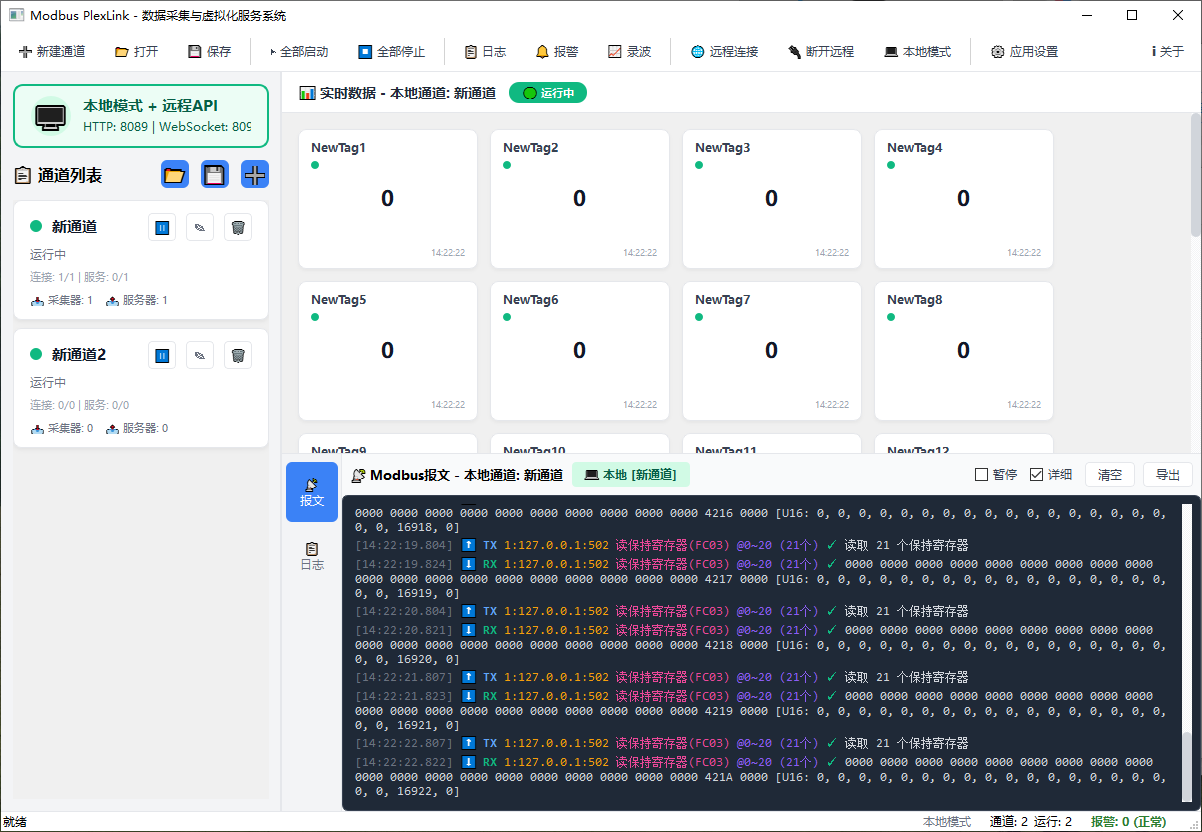
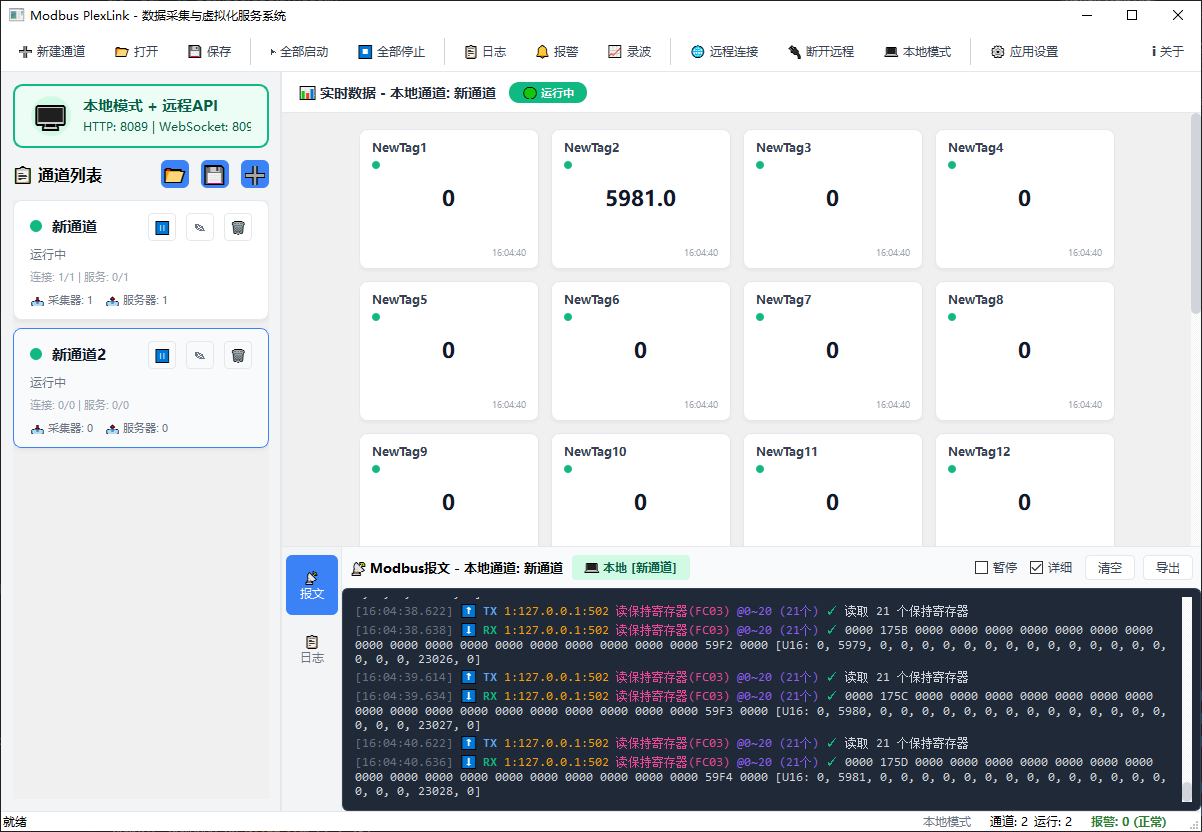
docs: 更新README，简化API文档并调整后期计划结构

diff --git a/src/gui/DashboardDataWidget.cpp b/src/gui/DashboardDataWidget.cpp
@@ -327,6 +327,11 @@ DashboardDataWidget::DashboardDataWidget(QWidget *parent)
     , m_headerWidget(nullptr)
     , m_channelNameLabel(nullptr)
     , m_channelStatusLabel(nullptr)
+    , m_scrollArea(nullptr)
+    , m_contentWidget(nullptr)
+    , m_gridContainer(nullptr)
+    , m_gridLayout(nullptr)
+    , m_emptyLabel(nullptr)
     , m_channelOnline(false)
 {
     setupUi();
@@ -395,18 +400,36 @@ void DashboardDataWidget::setupUi() {
     m_scrollArea->setHorizontalScrollBarPolicy(Qt::ScrollBarAsNeeded);
     m_scrollArea->setVerticalScrollBarPolicy(Qt::ScrollBarAsNeeded);
 
-    // 内容容器
+    // 内容容器 - 使用包装布局实现居中
     m_contentWidget = new QWidget();
-    m_gridLayout = new QGridLayout(m_contentWidget);
-    m_gridLayout->setContentsMargins(16, 16, 16, 16);
+    QVBoxLayout* contentLayout = new QVBoxLayout(m_contentWidget);
+    contentLayout->setContentsMargins(0, 0, 0, 0);
+    contentLayout->setSpacing(0);
+    
+    // 创建一个水平布局用于居中
+    QHBoxLayout* centerLayout = new QHBoxLayout();
+    centerLayout->setContentsMargins(16, 16, 16, 16);
+    centerLayout->setSpacing(0);
+    centerLayout->addStretch();
+    
+    // 网格布局（卡片容器）
+    m_gridContainer = new QWidget(m_contentWidget);
+    m_gridLayout = new QGridLayout(m_gridContainer);
+    m_gridLayout->setContentsMargins(0, 0, 0, 0);
     m_gridLayout->setSpacing(12);
     m_gridLayout->setAlignment(Qt::AlignTop | Qt::AlignLeft);
+    
+    centerLayout->addWidget(m_gridContainer);
+    centerLayout->addStretch();
+    
+    contentLayout->addLayout(centerLayout);
+    contentLayout->addStretch();
 
     m_scrollArea->setWidget(m_contentWidget);
     mainLayout->addWidget(m_scrollArea);
 
     // 空状态标签
-    m_emptyLabel = new QLabel(tr("🔍 暂无数据\n\n请选择一个运行中的通道"), this);
+    m_emptyLabel = new QLabel(tr("🔍 暂无数据\n\n请选择一个运行中的通道"), m_gridContainer);
     m_emptyLabel->setAlignment(Qt::AlignCenter);
     m_emptyLabel->setStyleSheet(R"(
         QLabel {
@@ -592,7 +615,7 @@ void DashboardDataWidget::addOrUpdateRemoteCard(const QString& tagName, const QJ
     } else {
         // 创建新卡片
         DataPoint emptyPoint;
-        DataPointCard* card = new DataPointCard(tagName, emptyPoint, m_contentWidget);
+        DataPointCard* card = new DataPointCard(tagName, emptyPoint, m_gridContainer);
         card->setRemoteMode(true);
         card->updateData(pointJson);
         m_cards[tagName] = card;
@@ -658,7 +681,7 @@ void DashboardDataWidget::addOrUpdateCard(const QString& tagName, const DataPoin
         m_cards[tagName]->updateData(point);
     } else {
         // 创建新卡片
-        DataPointCard* card = new DataPointCard(tagName, point, m_contentWidget);
+        DataPointCard* card = new DataPointCard(tagName, point, m_gridContainer);
         m_cards[tagName] = card;
 
         // 计算网格位置 (每行4个卡片)

diff --git a/src/gui/MainWindow.cpp b/src/gui/MainWindow.cpp
@@ -1127,6 +1127,7 @@ void MainWindow::createCentralWidget() {
 
     // 右下：报文与日志面板
     m_messageLogPanel = new MessageLogPanel(this);
+    m_messageLogPanel->setMinimumHeight(260);  // 设置最小高度为260px
     m_rightSplitter->addWidget(m_messageLogPanel);
 
     // 设置右侧上下分割比例 (60% : 40%)
@@ -1140,6 +1141,12 @@ void MainWindow::createCentralWidget() {
     m_mainSplitter->setStretchFactor(1, 70);
 
     setCentralWidget(m_mainSplitter);
+    
+    // 设置右侧splitter的初始大小，使右下区域初始高度为260px
+    // 假设窗口高度约为800px，右侧区域高度约为600px，则右上约为340px，右下为260px
+    QList<int> rightSizes;
+    rightSizes << 340 << 260;  // 右上340px，右下260px
+    m_rightSplitter->setSizes(rightSizes);
 
     // 应用现代化主题
     applyModernTheme();

diff --git a/src/gui/DashboardDataWidget.h b/src/gui/DashboardDataWidget.h
@@ -112,6 +112,7 @@ private:
     QLabel* m_channelStatusLabel;  // 通道状态标签（运行/离线）
     QScrollArea* m_scrollArea;
     QWidget* m_contentWidget;
+    QWidget* m_gridContainer;      // 网格布局容器（用于居中）
     QGridLayout* m_gridLayout;
     QLabel* m_emptyLabel;
 

diff --git a/README.md b/README.md
@@ -46,7 +46,7 @@
 - [快速开始](#-快速开始)
 - [使用指南](#-使用指南)
 - [API文档](#-api文档)
-- [后期计划与展望](#-后期计划与展望)
+- [后期计划](#-后期计划)
 - [贡献指南](#-贡献指南)
 - [许可证](#-许可证)
 
@@ -386,105 +386,26 @@ cmake --build . --config Release
 
 ## 🔌 API文档
 
-### REST API端点
+Modbus PlexLink 提供完整的 HTTP REST API 和 WebSocket 实时推送功能。
 
-#### 通道管理
+### 主要端点
 
-| 方法 | 路径 | 描述 |
-|------|------|------|
-| GET | `/api/channels` | 获取所有通道 |
-| GET | `/api/channels/{name}` | 获取指定通道 |
-| POST | `/api/channels` | 创建通道 |
-| PUT | `/api/channels/{name}` | 更新通道 |
-| DELETE | `/api/channels/{name}` | 删除通道 |
-| POST | `/api/channels/{name}/start` | 启动通道 |
-| POST | `/api/channels/{name}/stop` | 停止通道 |
+- **通道管理**: `GET/POST/PUT/DELETE /api/channels`
+- **数据操作**: `GET/PUT /api/channels/{name}/data`
+- **告警管理**: `GET /api/alarms`, `POST /api/alarms/{id}/acknowledge`
+- **系统信息**: `GET /api/system`, `GET /api/statistics`
 
-#### 数据操作
-
-| 方法 | 路径 | 描述 |
-|------|------|------|
-| GET | `/api/channels/{name}/data` | 获取通道所有数据 |
-| GET | `/api/channels/{name}/data/{tag}` | 获取指定数据点 |
-| PUT | `/api/channels/{name}/data/{tag}` | 写入数据点 |
-
-#### 告警管理
-
-| 方法 | 路径 | 描述 |
-|------|------|------|
-| GET | `/api/alarms` | 获取活动告警 |
-| POST | `/api/alarms/{id}/acknowledge` | 确认告警 |
-
-#### 系统
-
-| 方法 | 路径 | 描述 |
-|------|------|------|
-| GET | `/api/system` | 获取系统信息 |
-| GET | `/api/statistics` | 获取统计信息 |
-| GET | `/api/config` | 获取当前配置 |
-| POST | `/api/config/save` | 保存配置 |
-
-### WebSocket API
+### WebSocket 实时推送
 
 连接地址: `ws://host:8081`
 
-#### 订阅消息
+支持订阅：
+- **数据订阅**: 实时数据更新推送
+- **告警通知**: 告警事件实时推送
+- **通道状态**: 通道状态变化推送
+- **Modbus报文**: 实时Modbus通信报文推送
 
-```json
-{
-  "type": "subscribe",
-  "data": {
-    "topics": ["data.Channel1", "alarms"]
-  }
-}
-```
-
-#### 数据推送
-
-```json
-{
-  "type": "data",
-  "channel": "Channel1",
-  "data": {
-    "Tag1": { "value": 123.45, "quality": "Good", "timestamp": "..." },
-    "Tag2": { "value": 67.89, "quality": "Good", "timestamp": "..." }
-  }
-}
-```
-
-#### 通道状态推送
-
-```json
-{
-  "type": "channel",
-  "data": {
-    "channel": "Channel1",
-    "action": "stateChanged",
-    "state": 2,
-    "stateString": "Running",
-    "running": true
-  }
-}
-```
-
-#### Modbus报文推送
-
-```json
-{
-  "type": "message",
-  "data": {
-    "channel": "Channel1",
-    "source": "ModbusTCP",
-    "direction": "TX",
-    "device": "1:192.168.1.100:502",
-    "function": "读保持寄存器(FC03)",
-    "address": "0~20",
-    "data": "0000 0000 ...",
-    "success": true,
-    "timestamp": "2026-01-15T10:30:00"
-  }
-}
-```
+详细的API文档请参阅 [API文档](docs/API.md)
 
 
 
@@ -515,76 +436,22 @@ cmake --build . --config Release
 
 ---
 
-## 🔮 后期计划与展望
+## 🔮 后期计划
 
-### 短期计划 (v1.2.0 - Q1 2026)
+### 短期计划 (v1.2.0)
+- Modbus RTU over TCP、数据持久化、采集器模板、配置向导
 
-#### 功能增强
+### 中期计划 (v1.3.0)
+- OPC UA客户端、MQTT发布、脚本引擎、虚拟点计算
 
-- [ ] **Modbus RTU over TCP**：支持串口服务器透传模式
-- [ ] **数据持久化**：本地SQLite数据库存储历史数据
-- [ ] **断点续采**：设备重连后自动补采数据
-- [ ] **采集器模板**：预置常见设备（电表、PLC）的配置模板
+### 长期展望 (v2.0+)
+- 微服务架构、容器化支持、插件系统、Web管理界面
 
-#### 性能优化
-
-- [ ] **采集调度优化**：智能调度多采集器，减少通信冲突
-- [ ] **内存池管理**：减少频繁内存分配开销
-- [ ] **数据压缩**：WebSocket数据推送支持压缩
-
-#### 用户体验
-
-- [ ] **配置向导**：引导式设备配置流程
-- [ ] **在线帮助**：内置帮助文档和工具提示
-- [ ] **主题切换**：支持亮色/暗色主题
-
-### 中期计划 (v1.3.0 - Q2 2026)
-
-#### 协议扩展
-
-- [ ] **OPC UA客户端**：支持OPC UA协议设备采集
-- [ ] **MQTT发布**：将数据发布到MQTT Broker
-- [ ] **HTTP推送**：支持将数据推送到REST API端点
-- [ ] **Modbus RTU服务器**：支持作为RTU从站响应
-
-#### 高级功能
-
-- [ ] **脚本引擎**：支持Lua/JavaScript脚本进行数据处理
-- [ ] **虚拟点计算**：支持计算型虚拟数据点（求和、平均等）
-- [ ] **数据归档**：按时间段归档历史数据
-- [ ] **报表导出**：定时生成数据报表（PDF/Excel）
-
-#### 集群部署
-
-- [ ] **主从热备**：支持主从节点自动切换
-- [ ] **负载均衡**：多网关负载均衡部署
-- [ ] **配置同步**：集群配置自动同步
-
-### 长期展望 (v2.0.0 - 2027)
-
-#### 架构升级
-
-- [ ] **微服务架构**：核心功能模块化，支持独立部署
-- [ ] **容器化支持**：提供Docker镜像和Kubernetes部署方案
-- [ ] **边缘AI**：集成轻量级机器学习模型进行异常检测
-
-#### 生态建设
-
-- [ ] **插件系统**：支持第三方协议适配器插件
-- [ ] **设备库**：社区贡献的设备配置库
-- [ ] **Web管理界面**：基于Vue/React的Web配置界面
-- [ ] **移动端App**：iOS/Android监控应用
-
-#### 行业解决方案
-
-- [ ] **能源管理**：电力、水务、燃气行业专用版
-- [ ] **智能制造**：MES/ERP集成方案
-- [ ] **楼宇自控**：BACnet协议支持
 
 
 ### 参与贡献
 
-欢迎联系我贡献！您可以通过以下方式参与：
+欢迎贡献！您可以通过以下方式参与：
 
 1. **🐛 提交Issue**：报告Bug或提出功能建议
 2. **🔧 Pull Request**：提交代码改进
